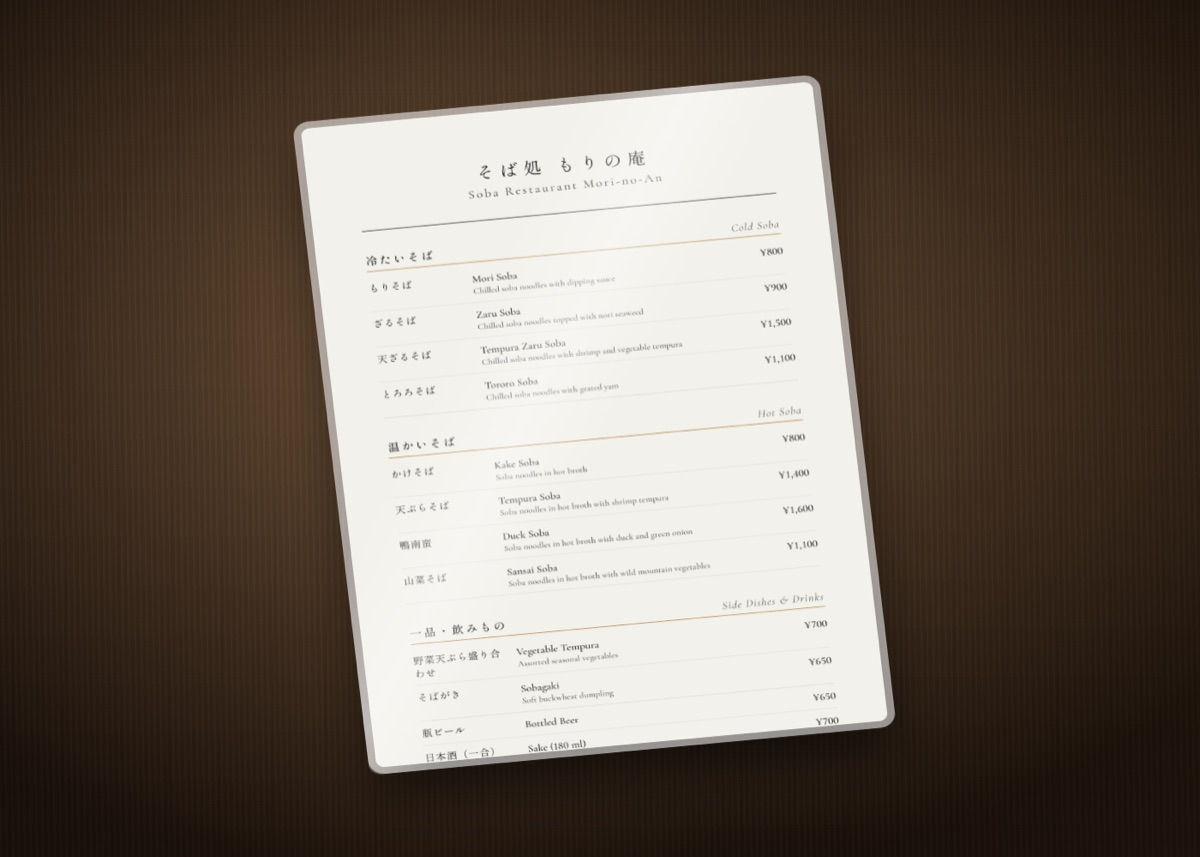
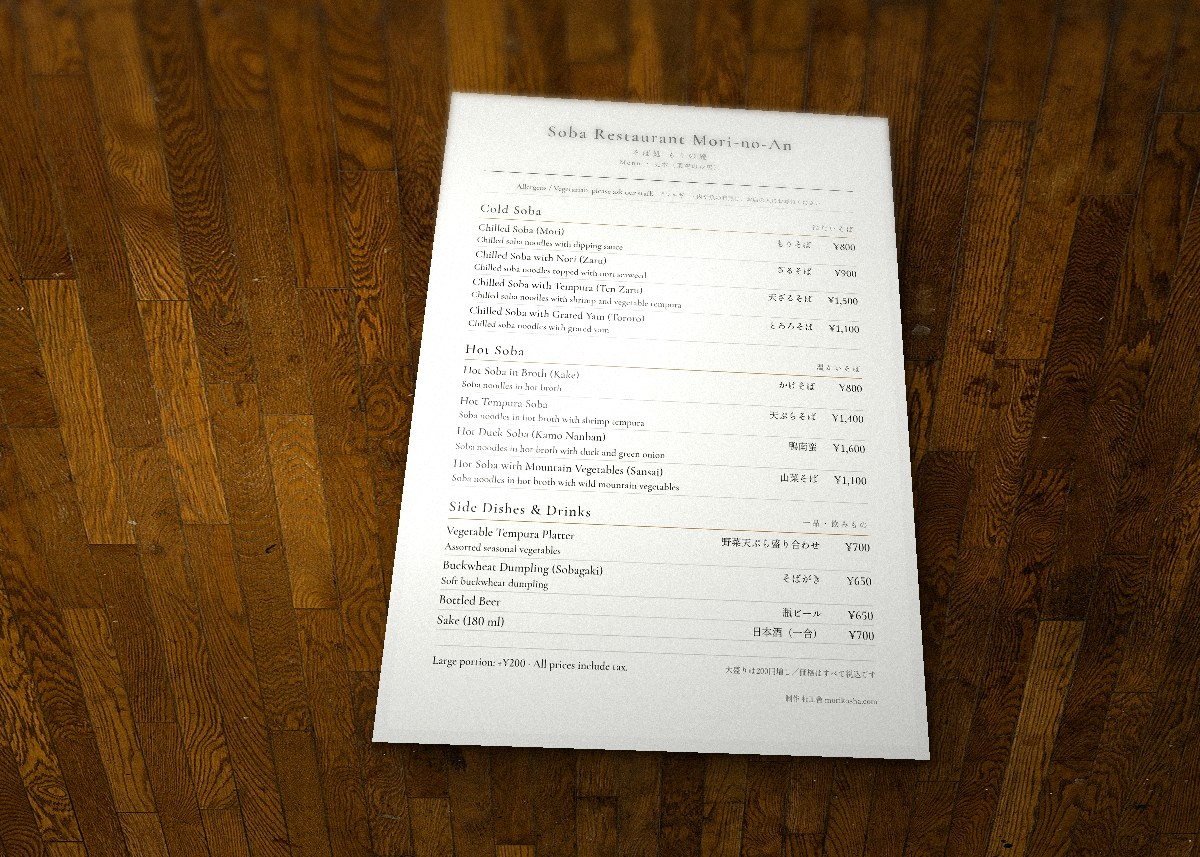
多言語メニュー：写真の撮り方のページ・見本の写真を卓の写真に

diff --git a/menu/satsuei.html b/menu/satsuei.html
@@ -1,0 +1,67 @@
+<!doctype html>
+<html lang="ja">
+<head>
+<meta charset="utf-8">
+<meta name="viewport" content="width=device-width,initial-scale=1">
+<title>メニューの写真の撮り方｜杜工舎</title>
+<meta name="description" content="多言語メニューのご依頼で、メニューの写真をお送りいただくときのコツ。スマホで1枚ずつ、正面から。">
+<link rel="canonical" href="https://morikosha.com/menu/satsuei.html">
+<style>
+:root{--bg:#F6F4EE;--card:#FFFDF8;--ink:#1E1F1D;--ink2:#5A564E;--line:#E2DDD2;--gold:#A8823F;--ok:#2E5741;--ng:#A33B2B}
+@media (prefers-color-scheme:dark){:root:not([data-theme="light"]){--bg:#191A18;--card:#22231F;--ink:#ECE8DF;--ink2:#B3ADA1;--line:#3A3933;--gold:#D9BC7F;--ok:#8FC09F;--ng:#E59A8A}}
+*{box-sizing:border-box}
+body{margin:0;background:var(--bg);color:var(--ink);font:16px/1.9 "Hiragino Mincho ProN","Shippori Mincho","Yu Mincho",serif}
+main{max-width:760px;margin:0 auto;padding:40px 16px 72px}
+.k{font-family:"Cormorant Garamond",serif;letter-spacing:.3em;color:var(--gold);font-size:13px;margin:0}
+h1{font-size:clamp(24px,5vw,32px);font-weight:500;letter-spacing:.08em;line-height:1.6;margin:8px 0 12px}
+.lead{color:var(--ink2);margin:0 0 36px}
+.step{background:var(--card);border:1px solid var(--line);padding:22px 20px;margin:0 0 20px;display:grid;grid-template-columns:200px 1fr;gap:20px;align-items:center}
+.step h2{font-size:19px;font-weight:500;letter-spacing:.06em;margin:0 0 6px}
+.step h2 span{color:var(--gold);margin-right:.6em;font-family:"Cormorant Garamond",serif;font-size:22px}
+.step p{margin:0;font-size:15px}
+.pair{display:flex;gap:10px}
+.pair figure{margin:0;flex:1;text-align:center;font-size:12px;color:var(--ink2)}
+.pair svg{width:100%;height:auto;display:block}
+.yes{color:var(--ok)}.no{color:var(--ng)}
+.note{border-top:1px solid var(--ink);margin-top:36px;padding-top:16px;font-size:15px}
+.note li{margin:4px 0}
+a{color:var(--ok)}
+@media (max-width:620px){.step{grid-template-columns:1fr}}
+</style>
+</head>
+<body><main>
+<p class="k">MORIKOSHA · MENU</p>
+<h1>メニューの写真は、<br>スマホで1枚ずつ、正面から。</h1>
+<p class="lead">お送りいただく写真がはっきりしているほど、文字の読み取りが正確になり、仕上がりも早くなります。お手数ですが、次の3つだけ気にかけていただけると助かります。</p>
+
+<section class="step">
+ <div class="pair">
+  <figure><svg viewBox="0 0 90 120" aria-hidden="true"><rect x="12" y="10" width="66" height="96" fill="#fff" stroke="currentColor" stroke-width="1.5"/><g stroke="#888" stroke-width="2"><line x1="22" y1="28" x2="68" y2="28"/><line x1="22" y1="42" x2="62" y2="42"/><line x1="22" y1="56" x2="66" y2="56"/><line x1="22" y1="70" x2="58" y2="70"/><line x1="22" y1="84" x2="64" y2="84"/></g></svg><span class="yes">○ 真上から</span></figure>
+  <figure><svg viewBox="0 0 90 120" aria-hidden="true"><polygon points="26,18 64,18 80,106 10,106" fill="#fff" stroke="currentColor" stroke-width="1.5"/><g stroke="#888" stroke-width="2"><line x1="30" y1="34" x2="60" y2="34"/><line x1="26" y1="52" x2="62" y2="52"/><line x1="22" y1="70" x2="68" y2="70"/><line x1="18" y1="88" x2="70" y2="88"/></g></svg><span class="no">△ 斜めから</span></figure>
+ </div>
+ <div><h2><span>01</span>正面から撮っていただけますか</h2><p>メニューを机に置き、スマホを真上に構えると、字がまっすぐ写ります。斜めからだと、奥の字が小さくなって読み違いのもとになります。</p></div>
+</section>
+
+<section class="step">
+ <div class="pair">
+  <figure><svg viewBox="0 0 90 120" aria-hidden="true"><rect x="12" y="10" width="66" height="96" fill="#fff" stroke="currentColor" stroke-width="1.5"/><g fill="#555" font-size="8.5" font-family="serif"><text x="18" y="34">そば 800</text><text x="18" y="54">天ぷら 1,400</text><text x="18" y="74">鴨南蛮 1,600</text></g></svg><span class="yes">○ くっきり</span></figure>
+  <figure><svg viewBox="0 0 90 120" aria-hidden="true"><defs><filter id="b"><feGaussianBlur stdDeviation="1.6"/></filter></defs><rect x="12" y="10" width="66" height="96" fill="#fff" stroke="currentColor" stroke-width="1.5"/><g fill="#555" font-size="8.5" font-family="serif" filter="url(#b)"><text x="18" y="34">そば 800</text><text x="18" y="54">天ぷら 1,400</text><text x="18" y="74">鴨南蛮 1,600</text></g></svg><span class="no">△ ぼけている</span></figure>
+ </div>
+ <div><h2><span>02</span>ピントが合っているか、一度だけ見てください</h2><p>画面のメニューを軽くタップすると、ピントが合います。明るい窓ぎわで、影が落ちない向きだとさらにきれいです。撮ったあと、指で広げて値段の数字が読めればだいじょうぶです。</p></div>
+</section>
+
+<section class="step">
+ <div class="pair">
+  <figure><svg viewBox="0 0 90 120" aria-hidden="true"><rect x="4" y="4" width="82" height="112" fill="none" stroke="var(--gold)" stroke-dasharray="3 3"/><rect x="14" y="12" width="62" height="96" fill="#fff" stroke="currentColor" stroke-width="1.5"/><g stroke="#888" stroke-width="2"><line x1="22" y1="30" x2="66" y2="30"/><line x1="22" y1="50" x2="62" y2="50"/><line x1="22" y1="70" x2="66" y2="70"/><line x1="22" y1="90" x2="58" y2="90"/></g></svg><span class="yes">○ 四すみまで入る</span></figure>
+  <figure><svg viewBox="0 0 90 120" aria-hidden="true"><rect x="4" y="4" width="82" height="112" fill="none" stroke="var(--gold)" stroke-dasharray="3 3"/><rect x="24" y="12" width="80" height="120" fill="#fff" stroke="currentColor" stroke-width="1.5"/><g stroke="#888" stroke-width="2"><line x1="32" y1="30" x2="96" y2="30"/><line x1="32" y1="50" x2="92" y2="50"/><line x1="32" y1="70" x2="96" y2="70"/><line x1="32" y1="90" x2="88" y2="90"/></g><rect x="86" y="0" width="4" height="120" fill="var(--bg)"/><rect x="0" y="116" width="90" height="4" fill="var(--bg)"/></svg><span class="no">△ はしが切れている</span></figure>
+ </div>
+ <div><h2><span>03</span>メニューの四すみまで、入れていただけますか</h2><p>はしの品や値段が切れると、その品を訳しもらすおそれがあります。大きなメニューは、半分ずつ2枚に分けて撮っていただいてもかまいません。</p></div>
+</section>
+
+<ul class="note">
+ <li>1ページにつき1枚で十分です。両面のメニューは、表と裏を1枚ずつお願いします。</li>
+ <li>手書きや筆文字のメニューも承ります。読みにくい字は、こちらから確かめのご連絡をすることがあります。</li>
+ <li>写真は <a href="mailto:info@morikosha.com?subject=%E3%83%A1%E3%83%8B%E3%83%A5%E3%83%BC%E3%81%AE%E5%86%99%E7%9C%9F">info@morikosha.com</a> へ、メールに添えてお送りください。いただいた写真は、メニューを作るためだけに使います。</li>
+</ul>
+<p style="margin-top:28px"><a href="../menu.html">← 多言語メニュー作成へ戻る</a></p>
+</main></body></html>

diff --git a/menu.html b/menu.html
@@ -2621,7 +2621,7 @@ body,.sec.s-ground,.sec.s-face,.s-ground,.s-face{background-image:url(assets/sit
     <h3 class="mn-h">よくある質問</h3>
     <div class="qa"><details open><summary><span class="qn" aria-hidden="true">Q1</span><span class="qt">手書きのメニューでも大丈夫ですか？</span><span class="fold-i" aria-hidden="true"></span></summary><div class="qa-a"><p>大丈夫です。読み取った文字は、写真と1行ずつ見比べて確かめます。読みにくい所は、メールでお尋ねします。</p></div></details><details open><summary><span class="qn" aria-hidden="true">Q2</span><span class="qt">品数が多いときは？</span><span class="fold-i" aria-hidden="true"></span></summary><div class="qa-a"><p>品数にかかわらず、同じ料金です。</p></div></details><details open><summary><span class="qn" aria-hidden="true">Q3</span><span class="qt">あとで値段が変わったら？</span><span class="fold-i" aria-hidden="true"></span></summary><div class="qa-a"><p>お渡しから2週間のうちは、1回まで無料で直します。それより後の直しは、1回ごとに18,000円（税込）です（ホームページ作成と同じ）。</p></div></details></div>
 
-    <div class="go"><a class="ln" href="menu/mihon.html">英語メニューの見本を開く</a></div>
+    <div class="go"><a class="ln" href="menu/mihon.html">英語メニューの見本を開く</a><a class="ln" href="menu/satsuei.html">写真の撮り方のコツ</a></div>
   </div>
 </section>
 </main>

diff --git a/en-menu.html b/en-menu.html
@@ -2617,7 +2617,7 @@ html[lang="en"] .nav .nj,html[lang="en"] .mnav .lb{display:none!important;}
     <h3 class="mn-h">FAQ</h3>
     <div class="qa"><details open><summary><span class="qn" aria-hidden="true">Q1</span><span class="qt">Is a handwritten menu okay?</span><span class="fold-i" aria-hidden="true"></span></summary><div class="qa-a"><p>Yes. We compare the text we read with your photo, line by line. If something is hard to read, we will ask you by email.</p></div></details><details open><summary><span class="qn" aria-hidden="true">Q2</span><span class="qt">What if I have a lot of items?</span><span class="fold-i" aria-hidden="true"></span></summary><div class="qa-a"><p>The price is the same however many items there are.</p></div></details><details open><summary><span class="qn" aria-hidden="true">Q3</span><span class="qt">What if a price changes later?</span><span class="fold-i" aria-hidden="true"></span></summary><div class="qa-a"><p>Within two weeks of delivery, we revise it free of charge, once. After that, each revision is ¥18,000 (tax incl.), the same as for Website.</p></div></details></div>
 
-    <div class="go"><a class="ln" href="menu/mihon.html">Open the English menu sample</a></div>
+    <div class="go"><a class="ln" href="menu/mihon.html">Open the English menu sample</a><a class="ln" href="menu/satsuei.html">Tips for photographing your menu</a></div>
   </div>
 </section>
 </main>
